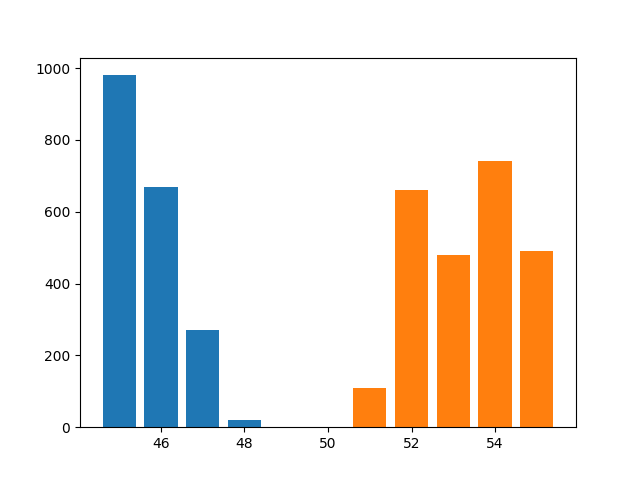
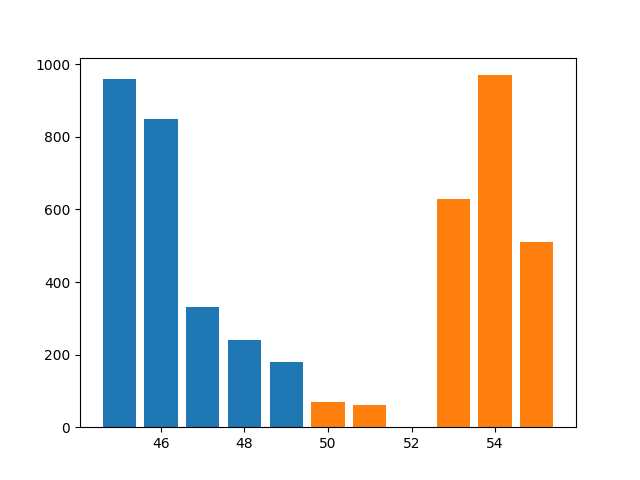
update to point to betanet

diff --git a/main.py b/main.py
@@ -2,7 +2,9 @@ import random
 import base64
 import algosdk
 from beaker import sandbox, client
+from beaker.client.api_providers import AlgoNode, Network
 from vex import Vex
+
 
 def demo():
     # TODO: can the App tell us which boxes it wants?
@@ -18,12 +20,15 @@ def demo():
     ]
 
     # Setup
-    algod_client = sandbox.clients.get_algod_client()
+    # algod_client = sandbox.clients.get_algod_client()
+    algod_client = AlgoNode(network=Network.BetaNet).algod()
+
     signer = sandbox.kmd.get_accounts().pop().signer
 
     app_client = client.ApplicationClient(algod_client, Vex(), signer=signer)
 
     app_id, _, _ = app_client.create()
+    print(f"CREATED APP ID: {app_id}")
     app_client.fund(int(1e7))
     app_client.call(Vex.boostrap, boxes=boxes)
 
@@ -44,8 +49,7 @@ def demo():
         )
         print("{} Filled {}".format(side, result.return_value))
 
-    # plot the depth of market
-    chart_dom(app_id, app_client.client)
+    return app_id
 
 
 def chart_dom(app_id: int, algod_client: algosdk.v2client.algod.AlgodClient):
@@ -64,7 +68,6 @@ def chart_dom(app_id: int, algod_client: algosdk.v2client.algod.AlgodClient):
             size = int.from_bytes(b[16:], "big")
             return Order(price, seq, size)
 
-
     class OrderBookSide:
         def __init__(self, side):
             self.side = side
@@ -80,7 +83,6 @@ def chart_dom(app_id: int, algod_client: algosdk.v2client.algod.AlgodClient):
         def dom(self):
             items = sorted(self.volume.items())
             return ([i[0] for i in items], [i[1] for i in items])
-
 
     # Start to build off chain representation
     order_size = 24
@@ -110,4 +112,5 @@ def chart_dom(app_id: int, algod_client: algosdk.v2client.algod.AlgodClient):
 
 
 if __name__ == "__main__":
-    demo()
+    app_id = demo()
+    chart_dom(app_id, AlgoNode(Network.BetaNet).algod())
